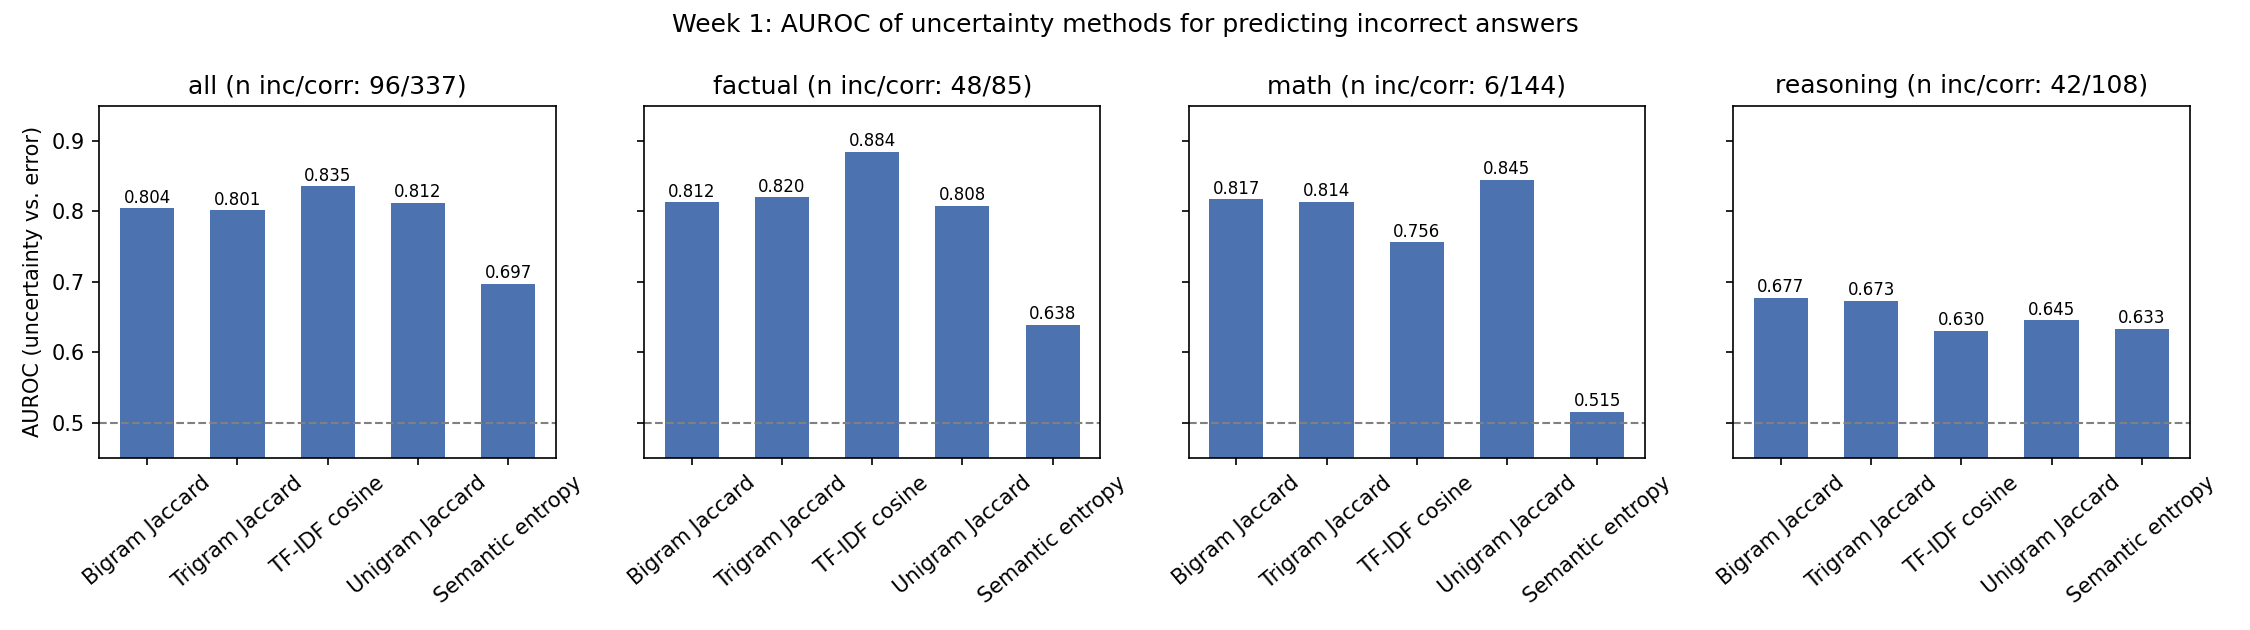
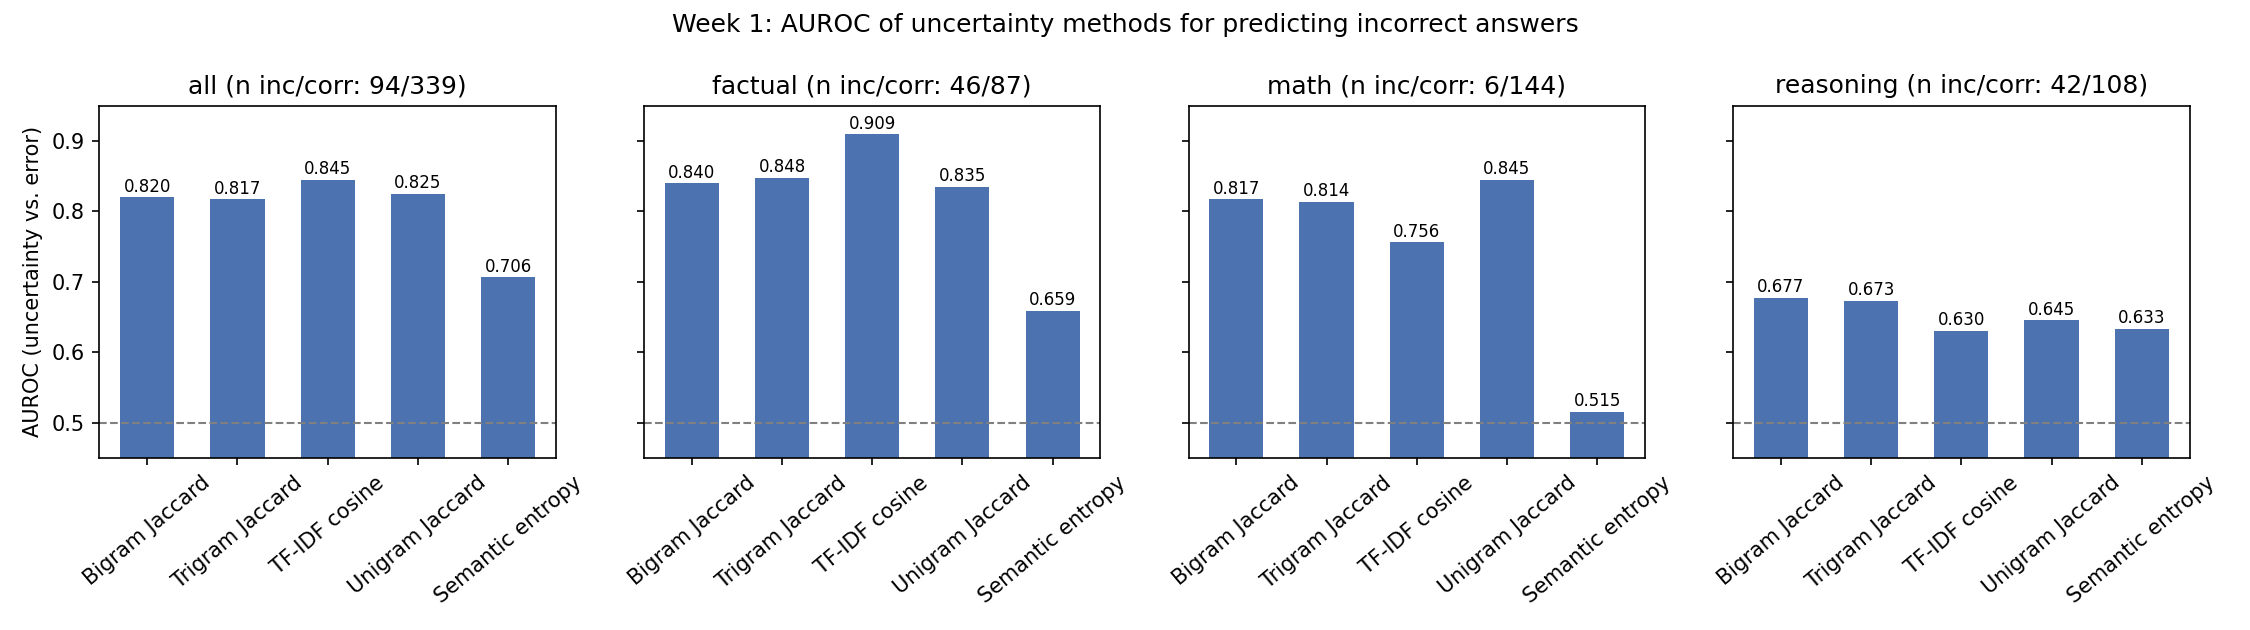
Outlier analysis: 4 confident-wrong cases -> 2 after grader fixes (accents, Roman ordinals); refresh AUROC+plots

diff --git a/scoring/analyze_low_uncertainty.py b/scoring/analyze_low_uncertainty.py
@@ -1,0 +1,186 @@
+"""Analyze high-confidence wrong answers (low-uncertainty incorrect questions).
+
+Finds questions whose majority-vote label is "incorrect" but whose bigram or
+trigram Jaccard uncertainty is low (the model was confidently wrong), and
+characterizes the failure pattern.
+
+Outputs:
+    results/low_uncertainty_incorrect_cases.md
+
+Usage:
+    python scoring/analyze_low_uncertainty.py
+"""
+
+from __future__ import annotations
+
+import itertools
+import json
+import sys
+from collections import Counter, defaultdict
+from pathlib import Path
+
+sys.path.insert(0, str(Path(__file__).resolve().parents[1]))
+
+import uq_common as uq
+
+import config as config_mod
+
+BIGRAM_LOW = 0.4
+TRIGRAM_LOW = 0.5
+
+
+def load_jsonl(path: Path) -> dict[str, dict]:
+    rows = {}
+    if not path.exists():
+        return rows
+    with path.open(encoding="utf-8") as handle:
+        for line in handle:
+            line = line.strip()
+            if not line:
+                continue
+            try:
+                row = json.loads(line)
+            except json.JSONDecodeError:
+                continue
+            rows[row["question_id"]] = row
+    return rows
+
+
+def main() -> int:
+    uq.enable_utf8_stdout()
+    uq.ensure_results_dir()
+
+    correctness = load_jsonl(uq.RESULTS_DIR / "correctness.jsonl")
+    scores = load_jsonl(uq.RESULTS_DIR / "ngram_tfidf.jsonl")
+    needs_review = load_jsonl(uq.RESULTS_DIR / "needs_review.jsonl")
+    questions = {q["question_id"]: q for q in uq.load_questions()}
+
+    samples_by_q: dict[str, list[dict]] = defaultdict(list)
+    with config_mod.GENERATIONS_PATH.open("r", encoding="utf-8") as handle:
+        for line in handle:
+            line = line.strip()
+            if not line:
+                continue
+            try:
+                record = json.loads(line)
+            except json.JSONDecodeError:
+                continue
+            if record.get("status") == "ok":
+                samples_by_q[record["question_id"]].append(record)
+    for question_id in samples_by_q:
+        samples_by_q[question_id].sort(key=lambda r: int(r.get("sample_id", -1)))
+
+    cases = []
+    for question_id, row in correctness.items():
+        if row.get("majority_label") != "incorrect":
+            continue
+        score_row = scores.get(question_id)
+        if not score_row:
+            continue
+        bigram = score_row.get("bigram_uncertainty")
+        trigram = score_row.get("trigram_uncertainty")
+        if bigram is None or trigram is None:
+            continue
+        if bigram >= BIGRAM_LOW and trigram >= TRIGRAM_LOW:
+            continue
+
+        question = questions[question_id]
+        per_sample = row["per_sample"]
+        extracted = [str(sample.get("extracted")) for sample in per_sample]
+        labels = [sample.get("label") for sample in per_sample]
+        unique_extracted = Counter(extracted)
+
+        texts = [(r.get("response_text") or "").strip() for r in samples_by_q.get(question_id, [])]
+        texts = [t for t in texts if t]
+        bigram_sims = []
+        if len(texts) >= 2:
+            sets = [uq.ngram_set(uq.tokenize(t), 2) for t in texts]
+            bigram_sims = [uq.jaccard(a, b) for a, b in itertools.combinations(sets, 2)]
+
+        n_samples = len(per_sample)
+        n_wrong = sum(1 for label in labels if label != "correct")
+        top, top_count = unique_extracted.most_common(1)[0] if unique_extracted else ("", 0)
+        if n_samples == top_count:
+            pattern = "all samples same wrong answer"
+        elif top_count >= 4:
+            pattern = f"{top_count}/{n_samples} samples same wrong answer"
+        elif bigram_sims and sum(bigram_sims) / len(bigram_sims) >= 0.6:
+            pattern = "near-identical wrong text"
+        else:
+            pattern = "diverse wrong answers"
+
+        cases.append(
+            {
+                "question_id": question_id,
+                "category": question["category"],
+                "question": question["question_text"],
+                "ground_truth": question["ground_truth_answer"],
+                "bigram": bigram,
+                "trigram": trigram,
+                "n_samples": n_samples,
+                "n_wrong": n_wrong,
+                "top_extracted": str(top),
+                "top_count": top_count,
+                "all_extracted": extracted,
+                "pattern": pattern,
+                "in_needs_review": question_id in needs_review,
+            }
+        )
+
+    cases.sort(key=lambda c: min(c["bigram"], c["trigram"]))
+
+    lines = [
+        "# Low-uncertainty incorrect cases (confidently wrong)",
+        "",
+        f"_Generated 2026-09-14. Definition: majority vote = incorrect AND "
+        f"(bigram Jaccard uncertainty < {BIGRAM_LOW} OR trigram < {TRIGRAM_LOW})._",
+        "",
+        f"Total cases: **{len(cases)}**",
+        "",
+        "| question_id | category | bigram | trigram | n_wrong/5 | pattern | GT | model answer(s) | review |",
+        "|---|---|---|---:|---:|---|---|---|---|",
+    ]
+    for case in cases:
+        question_short = case["question"].replace("|", "/")[:80]
+        gt = str(case["ground_truth"]).replace("|", "/")[:40]
+        answers = " / ".join(dict.fromkeys(a[:40] for a in case["all_extracted"]))[:120]
+        answers = answers.replace("|", "/")
+        lines.append(
+            f"| {case['question_id']} | {case['category']} | {case['bigram']:.3f} | {case['trigram']:.3f} | "
+            f"{case['n_wrong']}/5 | {case['pattern']} | {gt} | {answers} | "
+            f"{'yes' if case['in_needs_review'] else 'no'} |"
+        )
+    lines += [
+        "",
+        "## Pattern summary by category",
+        "",
+        "| category | cases | common pattern |",
+        "|---|---:|---|",
+    ]
+    by_category: dict[str, list] = defaultdict(list)
+    for case in cases:
+        by_category[case["category"]].append(case)
+    for category in ("factual", "math", "reasoning"):
+        group = by_category.get(category, [])
+        if not group:
+            continue
+        patterns = Counter(c["pattern"] for c in group)
+        common = ", ".join(f"{p} (x{cnt})" for p, cnt in patterns.most_common(2))
+        lines.append(f"| {category} | {len(group)} | {common} |")
+    lines.append("")
+
+    output = uq.RESULTS_DIR / "low_uncertainty_incorrect_cases.md"
+    output.write_text("\n".join(lines), encoding="utf-8")
+
+    print(f"cases: {len(cases)} -> {output}")
+    for category in ("factual", "math", "reasoning"):
+        group = by_category.get(category, [])
+        if group:
+            print(f"  {category}: {len(group)} cases")
+    patterns = Counter(c["pattern"] for c in cases)
+    print("patterns:", dict(patterns))
+    return 0
+
+
+if __name__ == "__main__":
+    sys.exit(main())

diff --git a/scoring/uq_common.py b/scoring/uq_common.py
@@ -9,6 +9,7 @@ from __future__ import annotations
 import json
 import re
 import sys
+import unicodedata
 from collections import Counter, defaultdict
 from pathlib import Path
 
@@ -26,6 +27,21 @@ IGNORED_EXTRA_TOKENS = {
     "of", "the", "a", "an", "in", "at", "on", "for", "and", "to", "by", "from",
     "with", "year", "years", "series", "film", "movie", "novel", "book",
 }
+
+ROMAN_TO_ORDINAL = {
+    "ii": "the second", "iii": "the third", "iv": "the fourth", "v": "the fifth",
+    "vi": "the sixth", "vii": "the seventh", "viii": "the eighth", "ix": "the ninth",
+    "x": "the tenth", "xi": "the eleventh", "xii": "the twelfth",
+    "xiii": "the thirteenth", "xiv": "the fourteenth", "xv": "the fifteenth",
+    "xvi": "the sixteenth", "xvii": "the seventeenth", "xviii": "the eighteenth",
+    "xix": "the nineteenth", "xx": "the twentieth",
+}
+ROMAN_RE = re.compile(r"\b(ii|iii|iv|v|vi|vii|viii|ix|x|xi|xii|xiii|xiv|xv|xvi|xvii|xviii|xix|xx)\b", re.IGNORECASE)
+
+
+def fold_accents(text: str) -> str:
+    decomposed = unicodedata.normalize("NFKD", text)
+    return "".join(char for char in decomposed if not unicodedata.combining(char))
 NUMBER_RE = re.compile(r"-?\d[\d,]*(?:\.\d+)?")
 FINAL_RE = re.compile(r"final answer\s*[:\-]?\s*(.+)", re.IGNORECASE | re.DOTALL)
 FINAL_YESNO_RE = re.compile(r"final answer\s*[:\-]?\s*\**\s*(yes|no)\b", re.IGNORECASE)
@@ -125,7 +141,8 @@ def extract_yes_no(text: str) -> str | None:
 def normalize_factual(text: str | None) -> str:
     if text is None:
         return ""
-    text = text.lower()
+    text = fold_accents(text.lower())
+    text = ROMAN_RE.sub(lambda match: ROMAN_TO_ORDINAL[match.group(1).lower()], text)
     text = PAREN_RE.sub(" ", text)
     text = TITLE_RE.sub(" ", text)
     text = PUNCT_RE.sub(" ", text)

diff --git a/results/week1_auroc_report.md b/results/week1_auroc_report.md
@@ -1,6 +1,6 @@
 # AUROC Report - uncertainty vs. incorrect answers
 
-_Generated 2026-09-14 19:42 UTC (full dataset: 450 questions x 5 samples)._
+_Generated 2026-09-15 07:48 UTC (full dataset: 450 questions x 5 samples)._
 
 Label: majority-vote incorrect (1) vs correct (0); unresolved/no-sample questions are excluded.
 AUROC > 0.5 means the uncertainty score is higher on incorrect answers.
@@ -17,12 +17,12 @@ AUROC > 0.5 means the uncertainty score is higher on incorrect answers.
 
 | Category | Method | AUROC | incorrect/correct | mean score (incorrect) | mean score (correct) |
 |---|---|---:|---|---:|---:|
-| factual | bigram_jaccard | 0.8125 | 48/85 | 0.7918 | 0.5351 |
-| factual | trigram_jaccard | 0.8199 | 48/85 | 0.8572 | 0.6053 |
-| factual | tfidf_cosine | 0.8841 | 48/85 | 0.6351 | 0.2372 |
-| factual | unigram_jaccard | 0.8077 | 48/85 | 0.6928 | 0.4299 |
-| factual | semantic_entropy | 0.6385 | 48/85 | 0.8974 | 0.6221 |
-| factual | semantic_entropy_normalized | 0.6385 | 48/85 | 0.5576 | 0.3865 |
+| factual | bigram_jaccard | 0.8398 | 46/87 | 0.8113 | 0.5307 |
+| factual | trigram_jaccard | 0.8478 | 46/87 | 0.8763 | 0.601 |
+| factual | tfidf_cosine | 0.9093 | 46/87 | 0.6573 | 0.2346 |
+| factual | unigram_jaccard | 0.8350 | 46/87 | 0.7122 | 0.4257 |
+| factual | semantic_entropy | 0.6588 | 46/87 | 0.9255 | 0.6136 |
+| factual | semantic_entropy_normalized | 0.6588 | 46/87 | 0.575 | 0.3812 |
 | math | bigram_jaccard | 0.8171 | 6/144 | 0.6584 | 0.5023 |
 | math | trigram_jaccard | 0.8137 | 6/144 | 0.7593 | 0.6137 |
 | math | tfidf_cosine | 0.7558 | 6/144 | 0.1423 | 0.0845 |
@@ -35,9 +35,9 @@ AUROC > 0.5 means the uncertainty score is higher on incorrect answers.
 | reasoning | unigram_jaccard | 0.6453 | 42/108 | 0.6535 | 0.5852 |
 | reasoning | semantic_entropy | 0.6332 | 42/108 | 1.3461 | 1.1065 |
 | reasoning | semantic_entropy_normalized | 0.6332 | 42/108 | 0.8364 | 0.6875 |
-| all | bigram_jaccard | 0.8041 | 96/337 | 0.8037 | 0.596 |
-| all | trigram_jaccard | 0.8011 | 96/337 | 0.8713 | 0.6869 |
-| all | tfidf_cosine | 0.8352 | 96/337 | 0.5643 | 0.248 |
-| all | unigram_jaccard | 0.8121 | 96/337 | 0.6588 | 0.4159 |
-| all | semantic_entropy | 0.6973 | 96/337 | 1.0614 | 0.6367 |
-| all | semantic_entropy_normalized | 0.6973 | 96/337 | 0.6595 | 0.3956 |
+| all | bigram_jaccard | 0.8195 | 94/339 | 0.8135 | 0.5945 |
+| all | trigram_jaccard | 0.8168 | 94/339 | 0.881 | 0.6853 |
+| all | tfidf_cosine | 0.8449 | 94/339 | 0.5737 | 0.2473 |
+| all | unigram_jaccard | 0.8247 | 94/339 | 0.6676 | 0.4149 |
+| all | semantic_entropy | 0.7063 | 94/339 | 1.0786 | 0.6344 |
+| all | semantic_entropy_normalized | 0.7063 | 94/339 | 0.6702 | 0.3942 |

diff --git a/docs/research_log.md b/docs/research_log.md
@@ -656,6 +656,27 @@ Not usable for generation:
   incorrect/correct counts) and `uncertainty_boxplots.png` (tfidf/bigram/
   trigram/semantic distributions for incorrect vs correct questions).
 
+## 2026-09-14 (outlier analysis) — confidently-wrong cases + grader fixes
+- Ran `scoring/analyze_low_uncertainty.py` on the full data: questions with
+  majority-vote incorrect AND low lexical uncertainty (bigram < 0.4 OR
+  trigram < 0.5) -> `results/low_uncertainty_incorrect_cases.md`.
+- Initial 4 cases were ALL factual; inspection showed 2 were grader artifacts:
+  "George II" vs GT "GEORGE THE SECOND" and "Francois Hollande" vs
+  "Francois Hollande" (accent). Fixed `uq_common.normalize_factual`: accent
+  folding (NFKD) + Roman-numeral -> ordinal-word mapping ("ii" -> "the second").
+  factual majority labels corrected 85->87 correct / 48->46 incorrect.
+- Remaining 2 true confident-wrong cases:
+  - factual_0081 (Little Red-Haired Girl): model insists "Snoopy" 4/5,
+    "Peppermint Patty" 1/5 -- genuine confidently-wrong pattern (near-identical
+    wrong answers).
+  - factual_0059 (Dick Grayson "better known as who?"): model says "Nightwing"
+    4/5 vs GT "Robin" -- ground-truth ambiguity (he is both); flagged for
+    manual review rather than treated as model error.
+- Takeaway for the professor: after grader fixes, only ~2/450 questions show
+  the dangerous "confident wrong answer" pattern, both factual; n-gram and
+  TF-IDF AUROCs improved slightly after label corrections (all: tfidf 0.845,
+  unigram 0.825, bigram 0.820, trigram 0.817, semantic 0.706).
+
 ## 2026-09-13 (scheduling change) — hourly around-the-clock harvest
 - `ThesisDailyResume` task extended from 16:45-21:45 IST only to **hourly,
   24h/day** (daily trigger 00:05 IST, 60-min repetition, 24h duration,

diff --git a/results/low_uncertainty_incorrect_cases.md b/results/low_uncertainty_incorrect_cases.md
@@ -1,0 +1,16 @@
+# Low-uncertainty incorrect cases (confidently wrong)
+
+_Generated 2026-09-14. Definition: majority vote = incorrect AND (bigram Jaccard uncertainty < 0.4 OR trigram < 0.5)._
+
+Total cases: **2**
+
+| question_id | category | bigram | trigram | n_wrong/5 | pattern | GT | model answer(s) | review |
+|---|---|---|---:|---:|---|---|---|---|
+| factual_0059 | factual | 0.267 | 0.400 | 4/5 | 4/5 samples same wrong answer | Robin | Nightwing / Robin | no |
+| factual_0081 | factual | 0.300 | 0.400 | 5/5 | 4/5 samples same wrong answer | Charlie Brown | Snoopy / Peppermint Patty | no |
+
+## Pattern summary by category
+
+| category | cases | common pattern |
+|---|---:|---|
+| factual | 2 | 4/5 samples same wrong answer (x2) |
